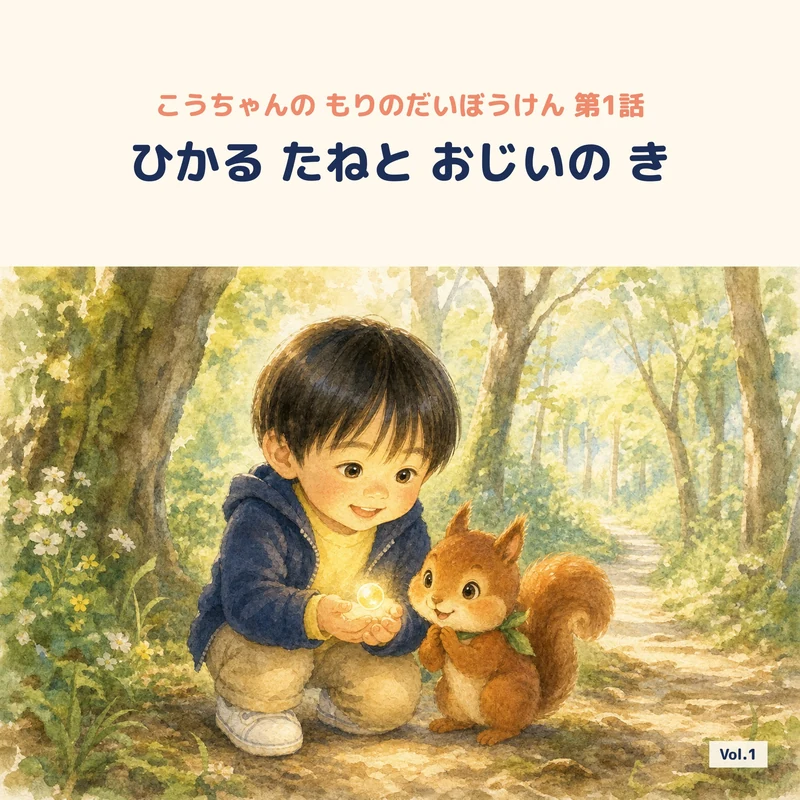
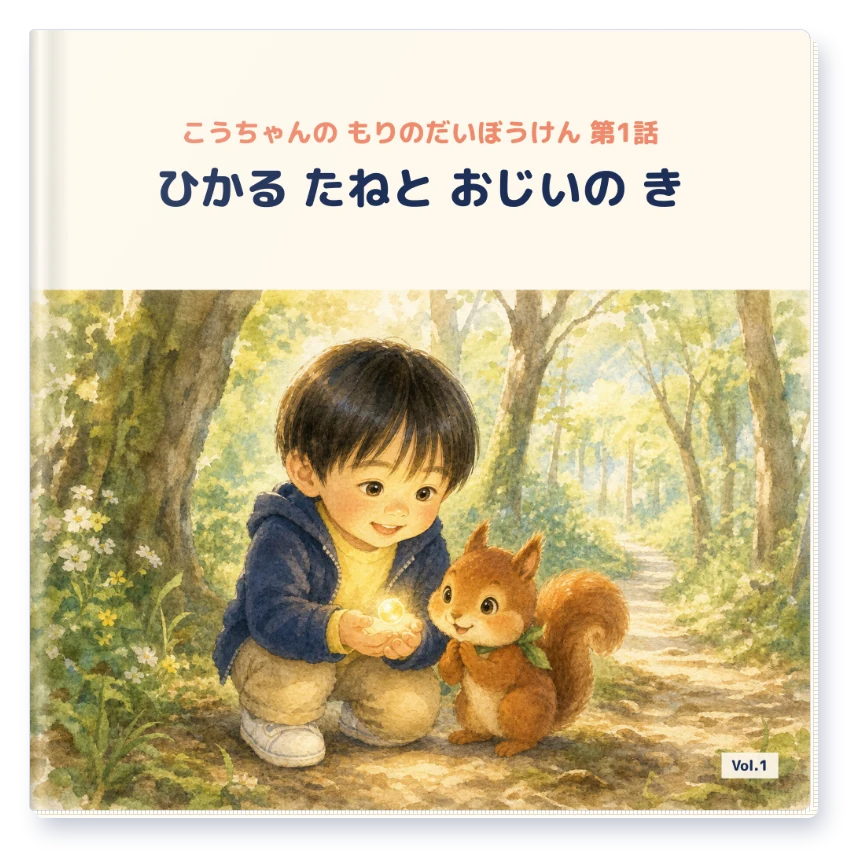
トップの表紙に少しだけ厚み（ページの重なり・背の陰）を付ける
Claude-Session: https://claude.ai/code/session_01Lh3JQPkNqLWeZxiFK6LrCi

diff --git a/src/app/top.module.css b/src/app/top.module.css
@@ -43,7 +43,7 @@
 .hinge { position: absolute; left: 0; top: 0; bottom: 0; width: 16px; background: linear-gradient(90deg, rgba(20, 30, 55, 0.55), rgba(20, 30, 55, 0.15) 45%, rgba(255, 255, 255, 0.35) 60%, rgba(20, 30, 55, 0.12) 75%, rgba(20, 30, 55, 0) 100%); }
 .gloss { position: absolute; inset: 0; pointer-events: none; background: linear-gradient(115deg, rgba(255, 255, 255, 0) 30%, rgba(255, 255, 255, 0.18) 42%, rgba(255, 255, 255, 0) 55%), linear-gradient(180deg, rgba(255, 255, 255, 0.06), rgba(0, 0, 0, 0.1)); }
 /* トップの絵本の表紙画像（影ごと画像になっているので、置くだけ） */
-.heroBook { position: absolute; left: 26px; top: 26px; width: 248px; height: auto; border-radius: 6px; box-shadow: 0 6px 16px rgba(30, 47, 87, 0.22); }
+.heroBook { position: absolute; left: 16px; top: 16px; width: 268px; height: auto; }
 .sticker { position: absolute; right: -14px; top: 206px; width: 92px; height: 92px; border-radius: 50%; background: var(--coral); color: #fff; display: flex; flex-direction: column; align-items: center; justify-content: center; transform: rotate(12deg); box-shadow: 0 4px 0 var(--coral-shadow); font-weight: 900; text-align: center; line-height: 1.25; }
 
 .wave { display: block; width: 100%; height: 40px; }

diff --git a/src/app/page.tsx b/src/app/page.tsx
@@ -243,9 +243,9 @@ export default function Home() {
           </span>
         </p>
         <div className={s.bookStage} aria-hidden="true">
-          {/* 完成した絵本の表紙（作道さんが用意した画像、2026-10-16 こうちゃん森1話に差し替え）。厚みなどの加工はしない */}
+          {/* 完成した絵本の表紙（作道さんが用意した画像、2026-10-16 こうちゃん森1話に差し替え）。ページの重なりと背の陰を少しだけ画像に描き込み済み */}
           <div className={s.sun} />
-          <Image src="/hero-book-kou.webp" alt="" width={800} height={800} priority sizes="250px" className={s.heroBook} />
+          <Image src="/hero-book-kou.webp" alt="" width={860} height={860} priority sizes="250px" className={s.heroBook} />
           <Lottie name="sparkles" style={{ position: "absolute", inset: 0 }} />
           <Sparkle size={26} className={s.deco} style={{ left: 8, top: 30 }} />
           <Sparkle size={22} className={s.deco} style={{ left: 262, top: 210 }} />
